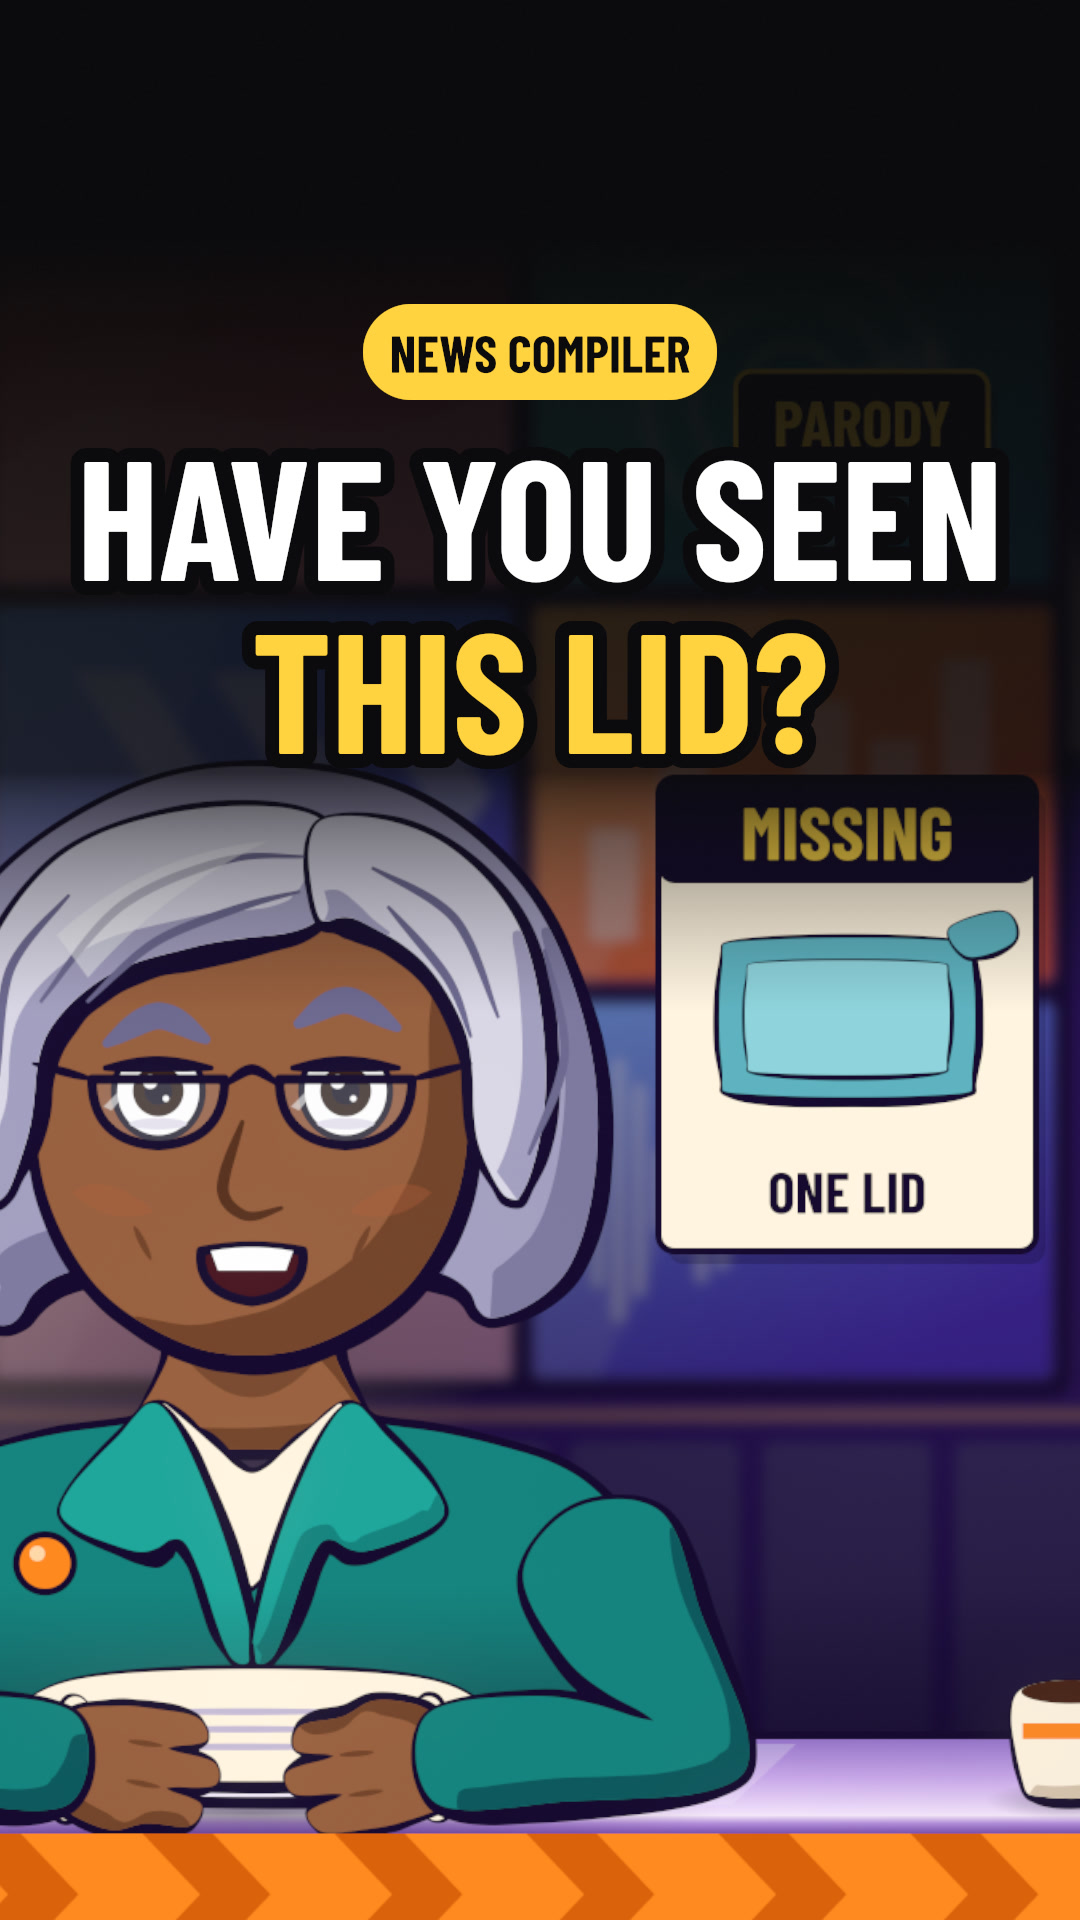
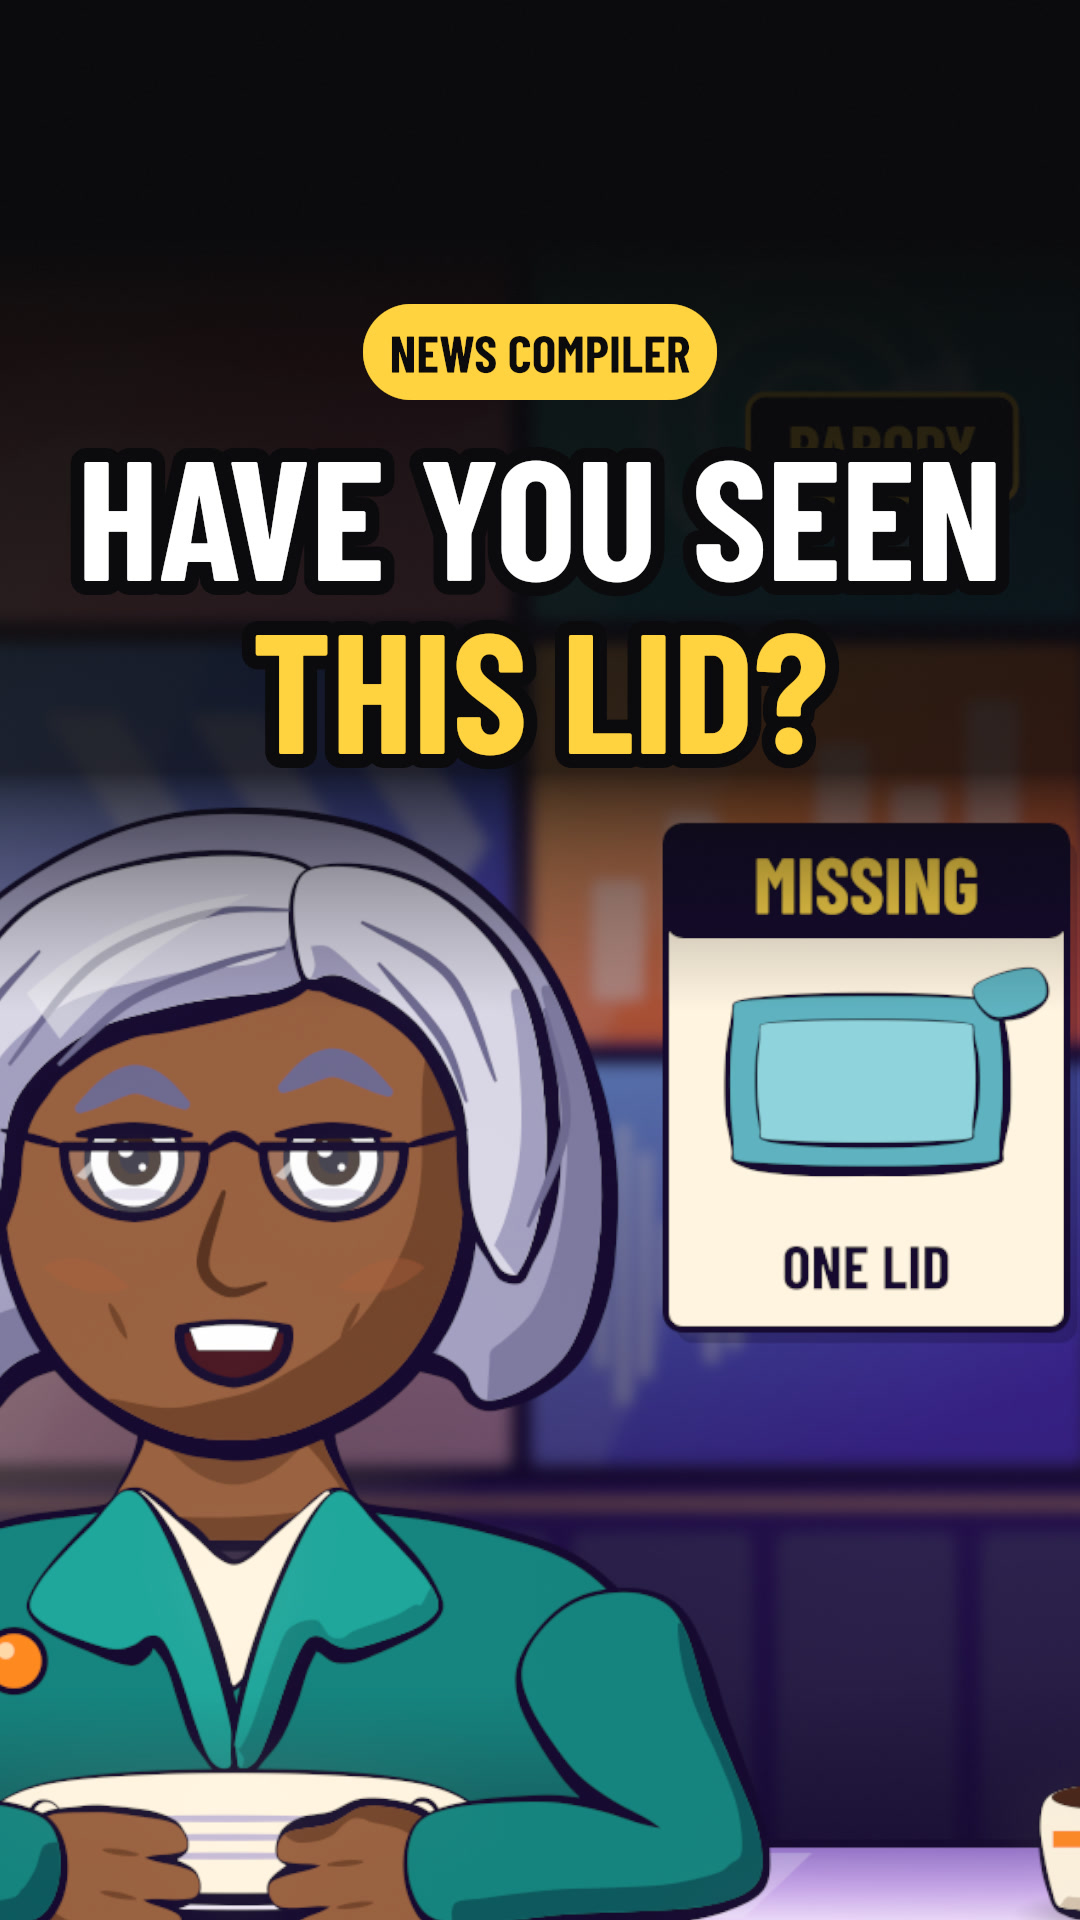
fix(news): keep the fictional covers' headlines off the heads
The covers were framed by eye and their headlines sat on Vera's hair. Each reel now names
the heads on its cover frame, the framing clears them, and a test holds it. The cover
backdrop comes from the scene's cover variant, so no burned caption shows through. Only
the covers change: the masters are built from the same scenes.

diff --git a/tests/test_news_fiction_pilots.py b/tests/test_news_fiction_pilots.py
@@ -17,7 +17,7 @@ from sr_core.scene import Scene
 from srstudio import Canvas, craft, news_kit, sketch
 from srstudio.news_kit import NewsKitError
 from srstudio.sketch import Line, SketchError
-from srstudio.thumbnail import Thumbnail
+from srstudio.thumbnail import Thumbnail, covered
 
 ROOT = Path(__file__).resolve().parents[1]
 PILOTS = ROOT / "episodes" / "pilots"
@@ -134,6 +134,14 @@ def test_the_cover_does_not_show_the_payoff(pilot):
     event, word = next(v for k, v in REELS.items() if load(k) is pilot)
     assert cover(pilot).at < sketch.events(pilot.BEATS, event)[0][0]
     assert word not in cover(pilot).headline.lower()
+
+
+def test_the_cover_headline_stays_off_the_heads(pilot):
+    episodes = os.environ.get("SRSTUDIO_EPISODES")
+    font = Path(episodes or "") / "pilots" / "news" / pilot.SLUG / "assets" / "fonts" / "barlow-condensed-700.ttf"
+    if not episodes or not font.exists():
+        pytest.skip("needs SRSTUDIO_EPISODES and the project's pinned font")
+    assert covered(cover(pilot), font.read_bytes(), 1080, 1920, pilot.FACES) == []
 
 
 def test_the_caption_opens_on_a_question_and_says_parody(pilot):

diff --git a/episodes/pilots/security_question_data.py b/episodes/pilots/security_question_data.py
@@ -102,13 +102,14 @@ BEATS = tuple(row[0] for row in ROWS)
 ACTS = tuple(row[1] for row in ROWS)
 SKETCH = Sketch(SLUG, TITLE, (news_kit.VERA, news_kit.GUS), LINES, BEATS, END, cast=news_kit.NEWS_CAST)
 EVENTS = ("first", "stare", "wrong", "again", "dawn", "wait", "farm")
+FACES = ((300.0, 475.0, 490.0, 385.0),)  # Vera's head on the cover's frame: its headline stays off it
 POST = InstagramPost(
     title="What did your parents tell you about your first pet?",
     description="Parody.",
     credit="Voices: ElevenLabs premade voices Matilda and Charlie. Original characters, drawn in code.",
     hashtags=("#parodynews", "#forgotpassword", "#securityquestion", "#everydaylife"),
     thumbnail=Thumbnail(
-        "Incorrect password.\nFourth attempt.", 5.0, "News Compiler", focus=(540.0, 400.0), zoom=1.15, place="top"
+        "Incorrect password.\nFourth attempt.", 5.0, "News Compiler", focus=(540.0, 400.0), zoom=1.6, place="top"
     ),
 )
 

diff --git a/episodes/pilots/one_more_episode_data.py b/episodes/pilots/one_more_episode_data.py
@@ -110,13 +110,14 @@ BEATS = tuple(row[0] for row in ROWS)
 ACTS = tuple(row[1] for row in ROWS)
 SKETCH = Sketch(SLUG, TITLE, (news_kit.VERA, news_kit.GUS), LINES, BEATS, END, cast=news_kit.NEWS_CAST, tail=TAIL)
 EVENTS = ("first", "three", "two", "one", "loop")
+FACES = ((300.0, 475.0, 490.0, 385.0),)  # Vera's head on the cover's frame: its headline stays off it
 POST = InstagramPost(
     title="What are you still watching that you don't even like?",
     description="Parody.",
     credit="Voices: ElevenLabs premade voices Matilda and Charlie. Original characters, drawn in code.",
     hashtags=("#parodynews", "#bingewatching", "#onemoreepisode", "#everydaylife"),
     thumbnail=Thumbnail(
-        "One more episode.\nSeven episodes ago.", 3.0, "News Compiler", focus=(540.0, 400.0), zoom=1.15, place="top"
+        "One more episode.\nSeven episodes ago.", 3.0, "News Compiler", focus=(540.0, 400.0), zoom=1.6, place="top"
     ),
 )
 

diff --git a/episodes/pilots/you_too_data.py b/episodes/pilots/you_too_data.py
@@ -98,13 +98,14 @@ BEATS = tuple(row[0] for row in ROWS)
 ACTS = tuple(row[1] for row in ROWS)
 SKETCH = Sketch(SLUG, TITLE, (news_kit.VERA, news_kit.GUS), LINES, BEATS, END, cast=news_kit.NEWS_CAST)
 EVENTS = ("first", "look", "slip", "zero", "button", "last")
+FACES = ((300.0, 475.0, 490.0, 385.0),)  # Vera's head on the cover's frame: its headline stays off it
 POST = InstagramPost(
     title="What's the 'you too' you still think about at 3 a.m.?",
     description="Parody.",
     credit="Voices: ElevenLabs premade voices Matilda and Charlie. Original characters, drawn in code.",
     hashtags=("#parodynews", "#awkwardmoments", "#overthinking", "#everydaylife"),
     thumbnail=Thumbnail(
-        "Enjoy your meal.\nYou too.", 5.2, "News Compiler", focus=(540.0, 400.0), zoom=1.15, place="top"
+        "Enjoy your meal.\nYou too.", 5.2, "News Compiler", focus=(540.0, 400.0), zoom=1.7, place="top"
     ),
 )
 

diff --git a/episodes/pilots/missing_lid_data.py b/episodes/pilots/missing_lid_data.py
@@ -91,12 +91,13 @@ BEATS = tuple(row[0] for row in ROWS)
 ACTS = tuple(row[1] for row in ROWS)
 SKETCH = Sketch(SLUG, TITLE, (news_kit.VERA, news_kit.GUS), LINES, BEATS, END, cast=news_kit.NEWS_CAST)
 EVENTS = ("first", "plea", "tease", "last")
+FACES = ((300.0, 475.0, 490.0, 385.0),)  # Vera's head on the cover's frame: its headline stays off it
 POST = InstagramPost(
     title="How many containers in your drawer have a lid?",
     description="Parody.",
     credit="Voices: ElevenLabs premade voices Matilda and Charlie. Original characters, drawn in code.",
     hashtags=("#parodynews", "#kitchenlife", "#tupperwaredrawer", "#everydaylife"),
-    thumbnail=Thumbnail("Have you seen\nthis lid?", 1.0, "News Compiler", focus=(720.0, 400.0), zoom=1.6, place="top"),
+    thumbnail=Thumbnail("Have you seen\nthis lid?", 1.0, "News Compiler", focus=(720.0, 400.0), zoom=1.7, place="top"),
 )
 
 

diff --git a/episodes/pilots/where_to_eat_data.py b/episodes/pilots/where_to_eat_data.py
@@ -96,6 +96,7 @@ BEATS = tuple(row[0] for row in ROWS)
 ACTS = tuple(row[1] for row in ROWS)
 SKETCH = Sketch(SLUG, TITLE, (news_kit.VERA, news_kit.GUS), LINES, BEATS, END, cast=news_kit.NEWS_CAST, tail=TAIL)
 EVENTS = ("first", "board", "call")
+FACES = ((145.0, 640.0, 240.0, 250.0), (610.0, 640.0, 260.0, 250.0))  # both heads on the cover's frame, kept clear
 POST = InstagramPost(
     title="Who in your house says 'I don't mind' and means it?",
     description="Parody.",
